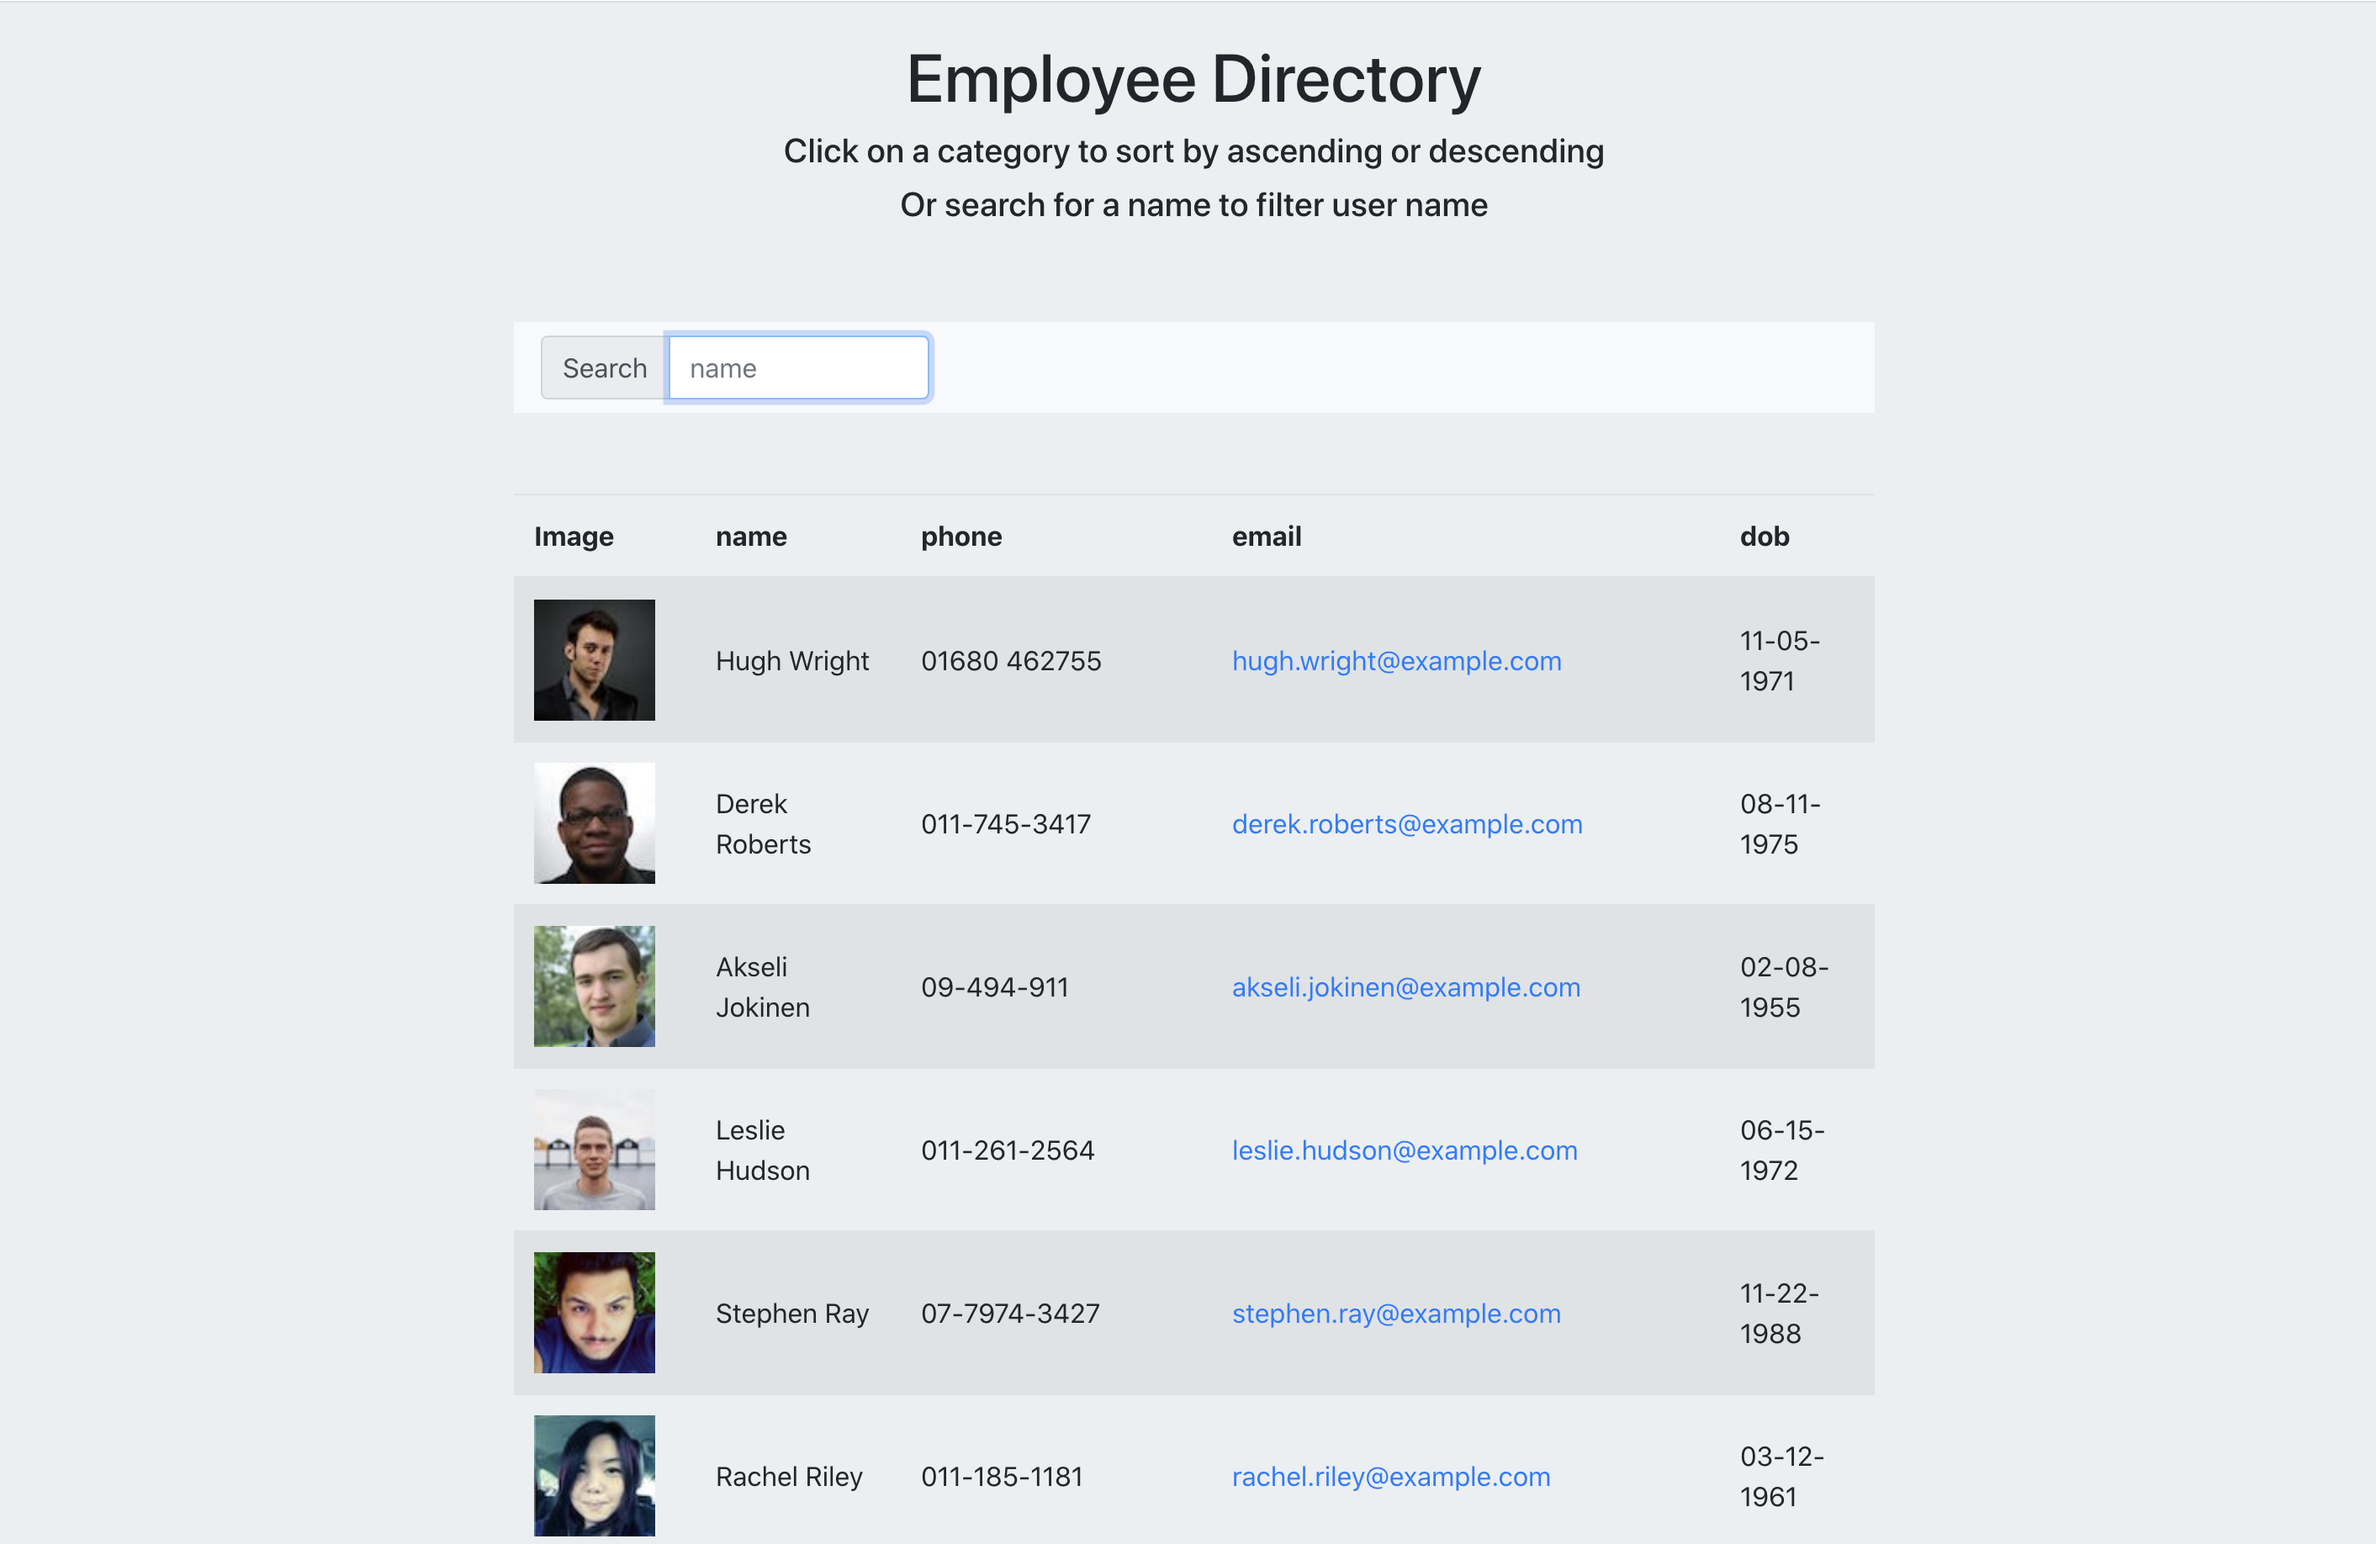
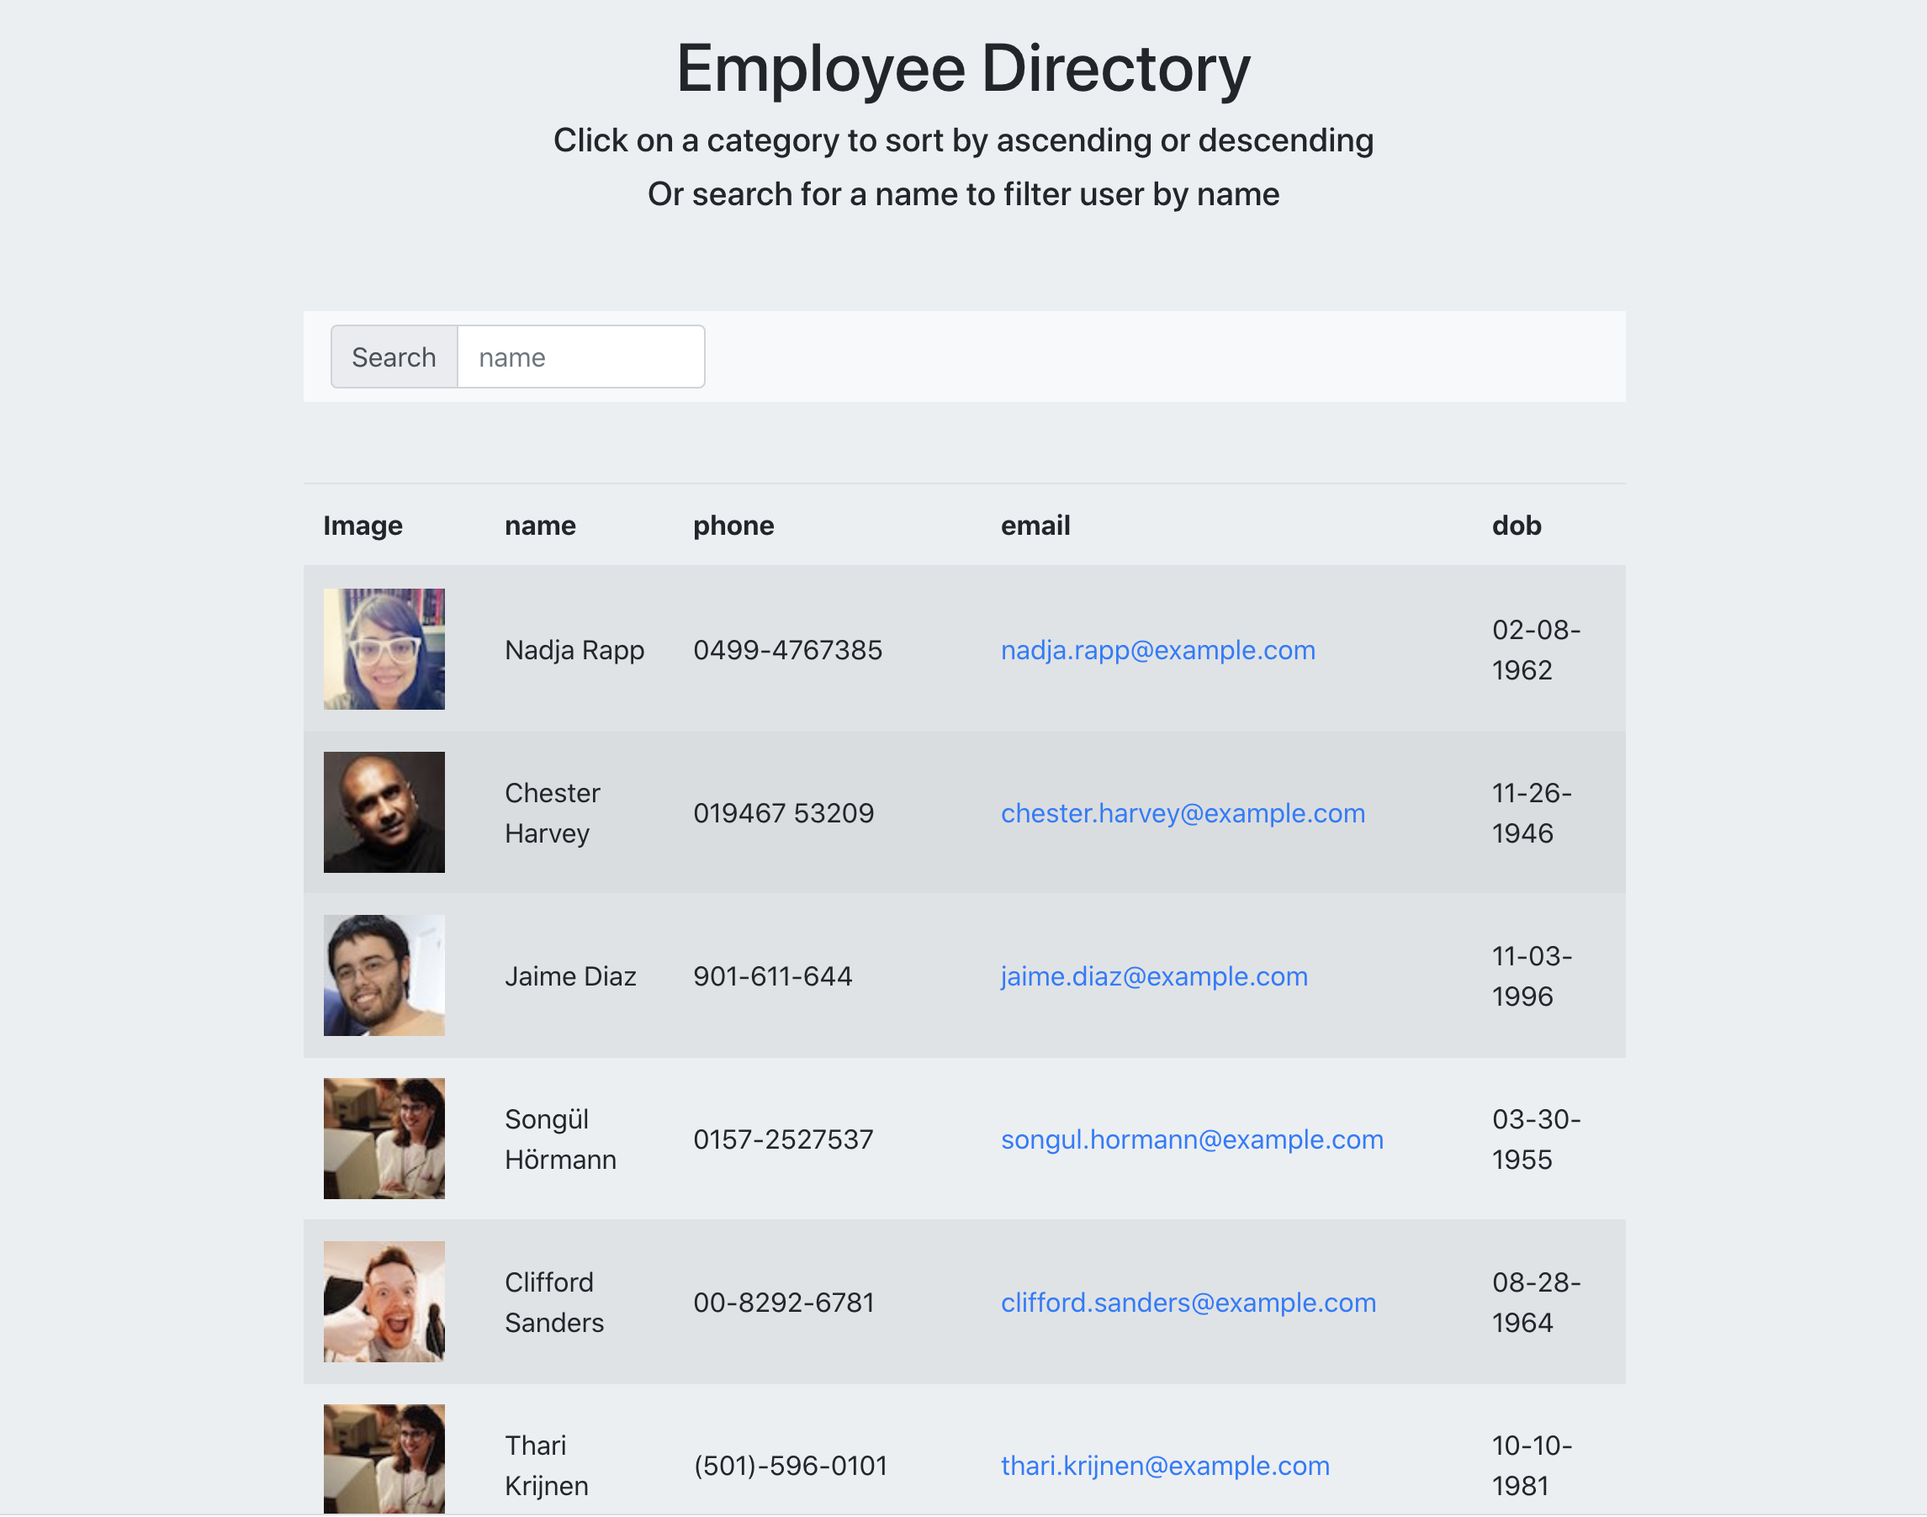
completed readme

diff --git a/public/index.html b/public/index.html
@@ -9,13 +9,25 @@
       name="description"
       content="Web site created using create-react-app"
     />
+
     <link rel="apple-touch-icon" href="%PUBLIC_URL%/logo192.png" />
     <!--
       manifest.json provides metadata used when your web app is installed on a
       user's mobile device or desktop. See https://developers.google.com/web/fundamentals/web-app-manifest/
     -->
     <link rel="manifest" href="%PUBLIC_URL%/manifest.json" />
-
+    <link
+      rel="stylesheet"
+      href="https://stackpath.bootstrapcdn.com/bootstrap/4.3.1/css/bootstrap.min.css"
+      integrity="sha384-ggOyR0iXCbMQv3Xipma34MD+dH/1fQ784/j6cY/iJTQUOhcWr7x9JvoRxT2MZw1T"
+      crossorigin="anonymous"
+    />
+    <script src="https://ajax.googleapis.com/ajax/libs/jquery/3.5.1/jquery.min.js"></script>
+    <script
+      src="https://cdnjs.cloudflare.com/ajax/libs/popper.js/2.4.4/umd/popper.min.js"
+      integrity="sha512-eUQ9hGdLjBjY3F41CScH3UX+4JDSI9zXeroz7hJ+RteoCaY+GP/LDoM8AO+Pt+DRFw3nXqsjh9Zsts8hnYv8/A=="
+      crossorigin="anonymous"
+    ></script>
     <!--
       Notice the use of %PUBLIC_URL% in the tags above.
       It will be replaced with the URL of the `public` folder during the build.

diff --git a/README.md b/README.md
@@ -53,7 +53,7 @@ Using npm:
 
 ## Usage
 
-<p> This application is designed to allow a user to view, create, and track daily workouts. Multiple Exercises in a workout can be logged each day. The name, type, weight, sets, reps, distance traveled, duration of excercise, can also be logged.
+<p> This application is designed to allow an employee or manager to view an employee directory. When the user loads the page, a table of employees is displayed allowing the user to sort by name, phone, email, or dob. The user can also filter by name via the search field.
 
 <hr>
 
@@ -62,8 +62,7 @@ Using npm:
 <ul>
 <li>HTML, CSS, Bootstrap</li>
 <li>Javascript, jQuery</li>
-<li>MongoDB</li>
-<li>React, node.js, Express, Seqeulize</li>
+<li>React, node.js, Express</li>
 <li>GitHub, Heroku</li>
 </ul>
 
